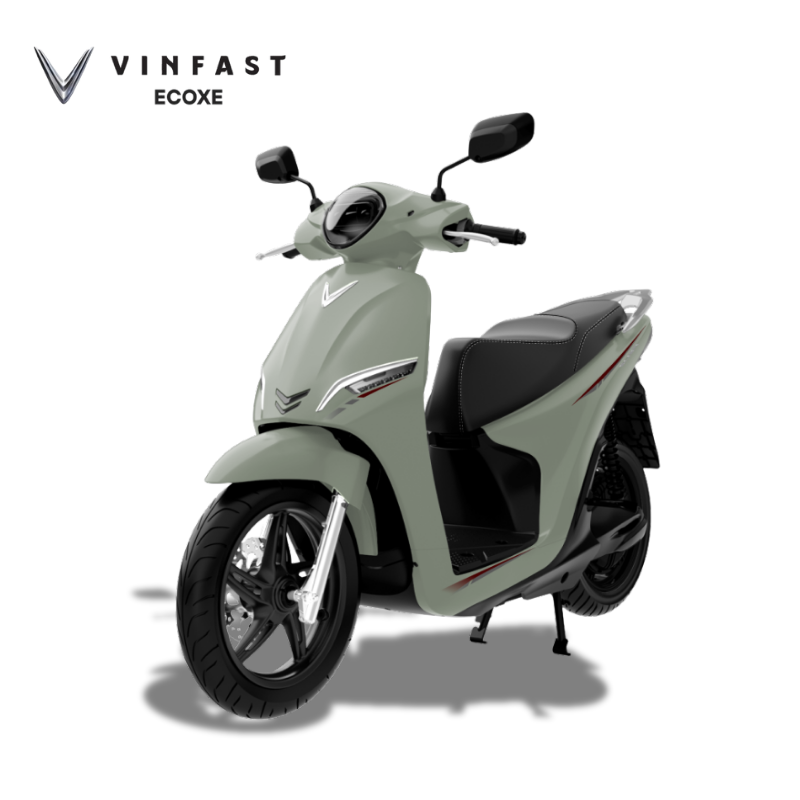
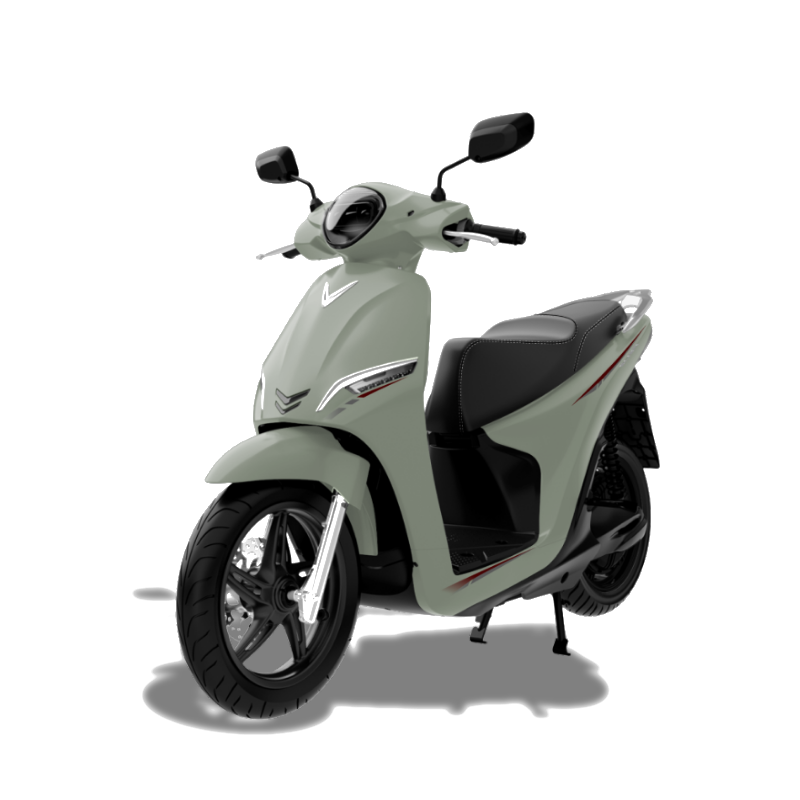
feat(hero): transparent bright Feliz render (keyed bg+watermark), floating animation, show on mobile, tighten hero→showcase gap

Changed region(s): [[0.0312, 0.0625, 0.375, 0.1562]]

diff --git a/src/styles/global.css b/src/styles/global.css
@@ -80,6 +80,17 @@ p {
   border-radius: 4px;
 }
 
+/* Idle hover/float for the hero bike — gentle bob + slight tilt for life.
+   Auto-disabled under prefers-reduced-motion by the safety net below. */
+@keyframes bike-float {
+  0%, 100% { transform: translateY(0) rotate(-1.2deg); }
+  50% { transform: translateY(-16px) rotate(1.2deg); }
+}
+.bike-float {
+  animation: bike-float 5s ease-in-out infinite;
+  will-change: transform;
+}
+
 /* Page-transition keyframes referenced by src/lib/motion/pageTransition.ts. */
 @keyframes bk-enter-up {
   from { opacity: 0; transform: translateY(16px); }